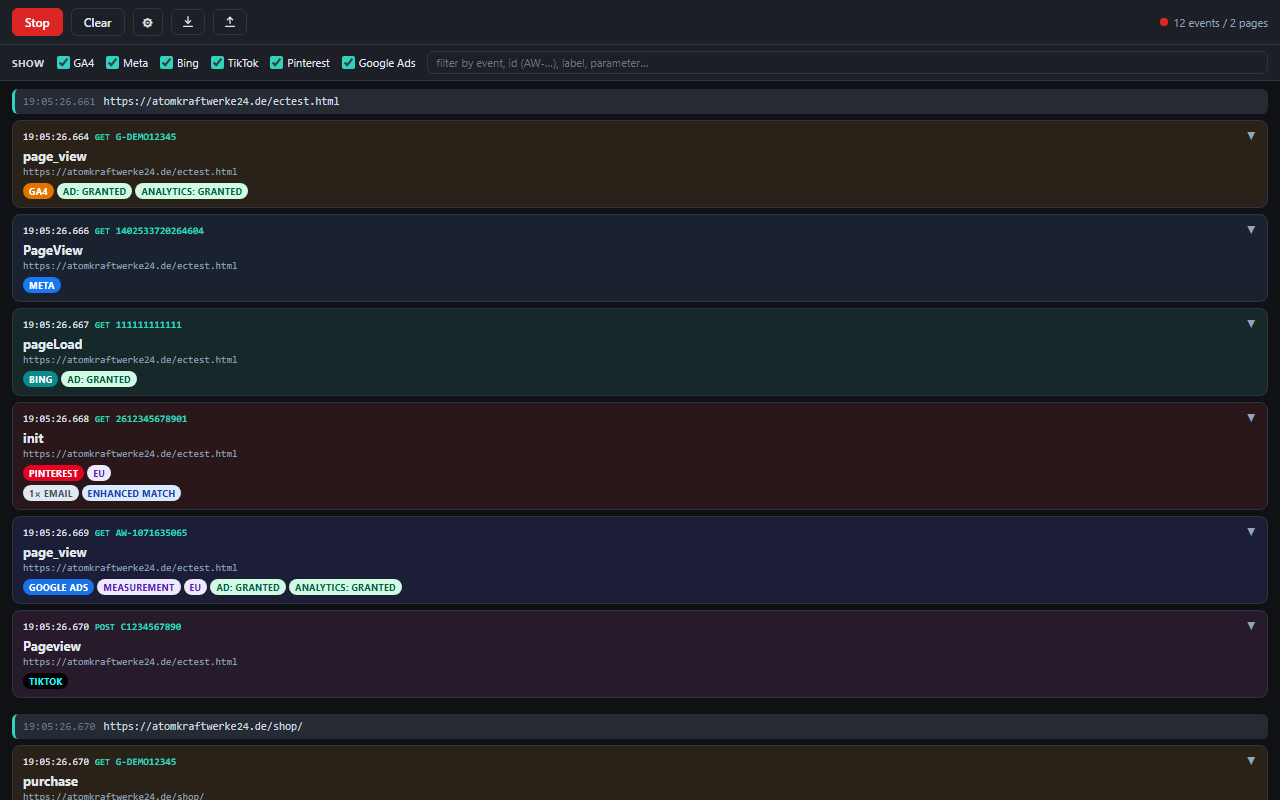
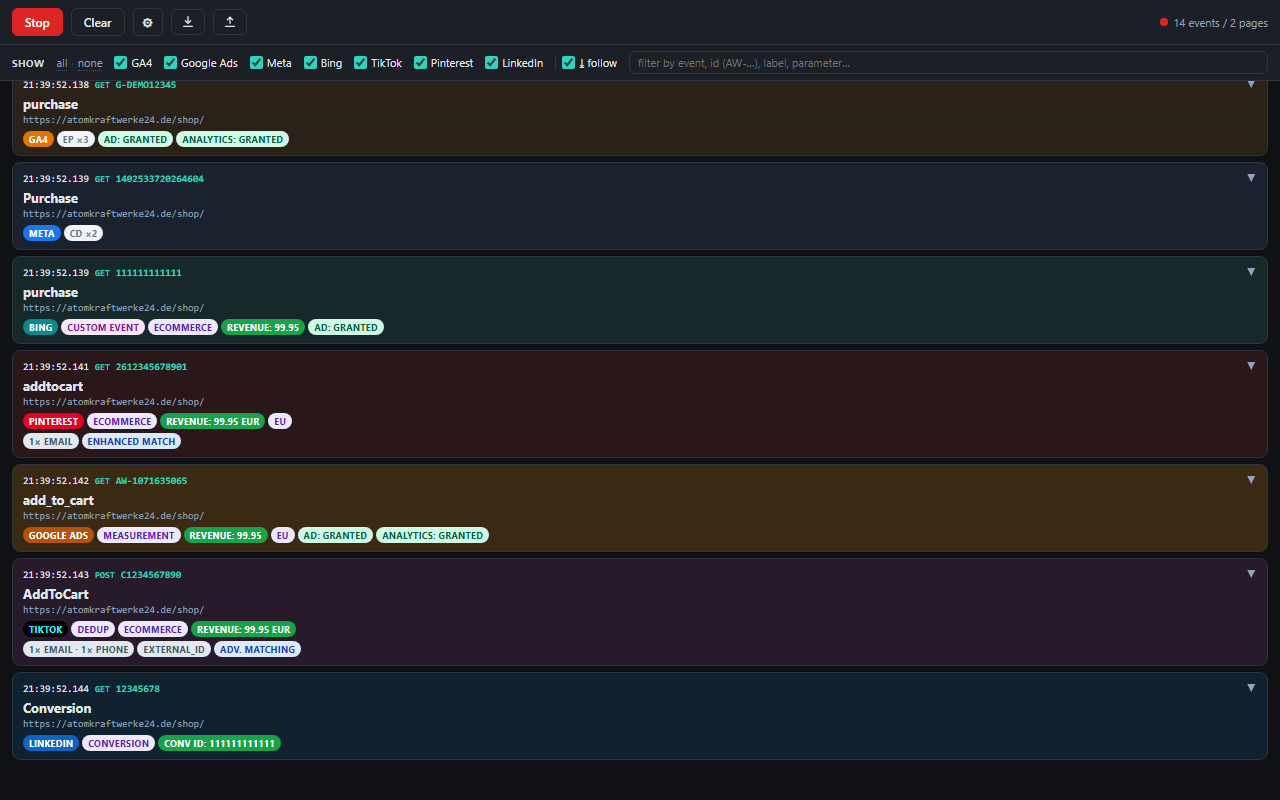
chore: add LinkedIn to Web Store assets, bump to 0.6.0
Screenshots now include LinkedIn Insight Tag hits (page view + conversion)
from real linkedin.har captures; promo tiles list LinkedIn in tagline and
chips. Align package.json version with the manifest and trim the manifest
description to reduce keyword stuffing.

diff --git a/scripts/fixtures-demo.js b/scripts/fixtures-demo.js
@@ -65,6 +65,8 @@ export const DEMO_BLOCKS = [
       { url: 'https://www.google.com/ccm/collect?rcb=18&frm=0&auid=1235240376.1778240583&dt=Enhanced%20Conversions%20Test%20Page&en=page_view&dl=https%3A%2F%2Fatomkraftwerke24.de%2Fectest.html&dr=tagassistant.google.com&rnd=294733418.1782761414&navt=r&npa=0&gtm=45Pe66p0v9210171140&gcs=G111&gcd=13r3r3r2r5l1&dma=1&tids=AW-1071635065&tid=AW-1071635065&fmt=8' },
       // TikTok Pageview (POST, JSON body)
       { url: 'https://analytics.tiktok.com/api/v2/pixel', method: 'POST', postData: { text: tiktokPageview } },
+      // LinkedIn Insight Tag page view (px collect beacon)
+      { url: 'https://px.ads.linkedin.com/collect?v=2&fmt=js&pid=12345678&time=1782761000&url=https%3A%2F%2Fatomkraftwerke24.de%2Fectest.html&tm=gtmv2' },
     ],
   },
   {
@@ -83,6 +85,8 @@ export const DEMO_BLOCKS = [
       { url: 'https://www.google.com/ccm/collect?rcb=18&frm=0&ae=g&auid=1235240376.1778240583&dt=Shop&en=add_to_cart&dl=https%3A%2F%2Fatomkraftwerke24.de%2Fshop%2F&rnd=294733418.1782761414&navt=r&npa=0&epn.value=99.95&_tu=CA&gtm=45Pe66p0v9210171140&gcs=G111&gcd=13r3r3r2r5l1&dma=1&tids=AW-1071635065&tid=AW-1071635065&fmt=8' },
       // TikTok AddToCart (POST, JSON body)
       { url: 'https://analytics.tiktok.com/api/v2/pixel', method: 'POST', postData: { text: tiktokAddToCart } },
+      // LinkedIn Insight Tag conversion (px collect beacon, conversionId set)
+      { url: 'https://px.ads.linkedin.com/collect?v=2&fmt=js&pid=12345678&time=1782761414&conversionId=111111111111&url=https%3A%2F%2Fatomkraftwerke24.de%2Fshop%2F&tm=gtmv2' },
     ],
   },
 ];

diff --git a/scripts/generate-screenshots.js b/scripts/generate-screenshots.js
@@ -107,8 +107,8 @@ function promoHtml(iconDataUri, w, h) {
       border-radius:${999 * s}px;padding:${4 * s}px ${12 * s}px;}
   </style></head><body><div class="tile">
     <div class="logo"><img src="${iconDataUri}"><div class="name">Tracking <b>Auditor</b></div></div>
-    <div class="tag">Every GA4, Meta, Bing, TikTok, Pinterest and Google Ads hit of the inspected tab — decoded live in DevTools.</div>
-    <div class="chips"><span class="chip">GA4</span><span class="chip">Meta</span><span class="chip">Bing</span><span class="chip">TikTok</span><span class="chip">Pinterest</span><span class="chip">Google Ads</span></div>
+    <div class="tag">Every GA4, Meta, Bing, TikTok, Pinterest, Google Ads and LinkedIn hit of the inspected tab — decoded live in DevTools.</div>
+    <div class="chips"><span class="chip">GA4</span><span class="chip">Meta</span><span class="chip">Bing</span><span class="chip">TikTok</span><span class="chip">Pinterest</span><span class="chip">Google Ads</span><span class="chip">LinkedIn</span></div>
   </div></body></html>`;
 }
 
